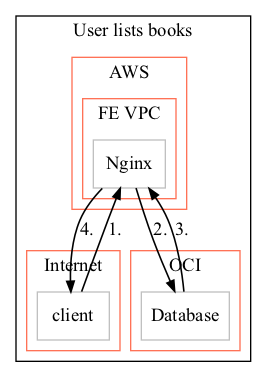
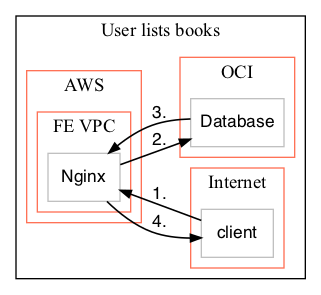
Updated jtg to use styles, updated util to draw LR

Changed region(s): [[0.03, 0.0305, 0.9588, 0.9763], [0.1798, 0.8237, 0.3596, 0.8542]]

diff --git a/src/jtg.py b/src/jtg.py
@@ -30,8 +30,8 @@ def genGraph(doc, sceneName, compoundLinks=False, linkCounters=True, printLabels
 
     _STYLES = {
         'boundary':'color="Red"',
-        'node':'shape="Box"',
-        'link':'fontsize="22"'
+        'node':'shape="box", margin="0.1", color="Grey", fontsize="13", fontname="Helvetica"',
+        'link':'fontsize="13", penwidth="1.2", arrowsize="0.8", fontname="Helvetica"'
     }
 
     graphContainer = graph.newSubgraph(sceneName, style='color="Black"')
@@ -59,7 +59,7 @@ def genGraph(doc, sceneName, compoundLinks=False, linkCounters=True, printLabels
 
                             parentBoundary = drawnBoundaries[key]
 
-                drawnActors[actor] = graph.newNode(actor, parent=parentBoundary)
+                drawnActors[actor] = graph.newNode(actor, parent=parentBoundary, style=_STYLES['node'])
 
         linkCounter += 1
 
@@ -71,7 +71,7 @@ def genGraph(doc, sceneName, compoundLinks=False, linkCounters=True, printLabels
             flowLabel = flowLabel + flow["data"]
 
         link = graph.newLink(
-            drawnActors[flow["from"]], drawnActors[flow["to"]], label=flowLabel, style='fontsize="14",penwidth="1.2",arrowsize="0.8"'
+            drawnActors[flow["from"]], drawnActors[flow["to"]], label=flowLabel, style=_STYLES['link']
         )
 
     return graph

diff --git a/src/util.py b/src/util.py
@@ -178,6 +178,7 @@ class Dot:
 
         dotStrings.append("digraph G {")
         dotStrings.append("compound=true;")
+        dotStrings.append('rankdir="LR"')
 
         for sub in [x for x in self._subgraphs if x["parent"] == None]:
             self.recurse(sub, dotStrings)
